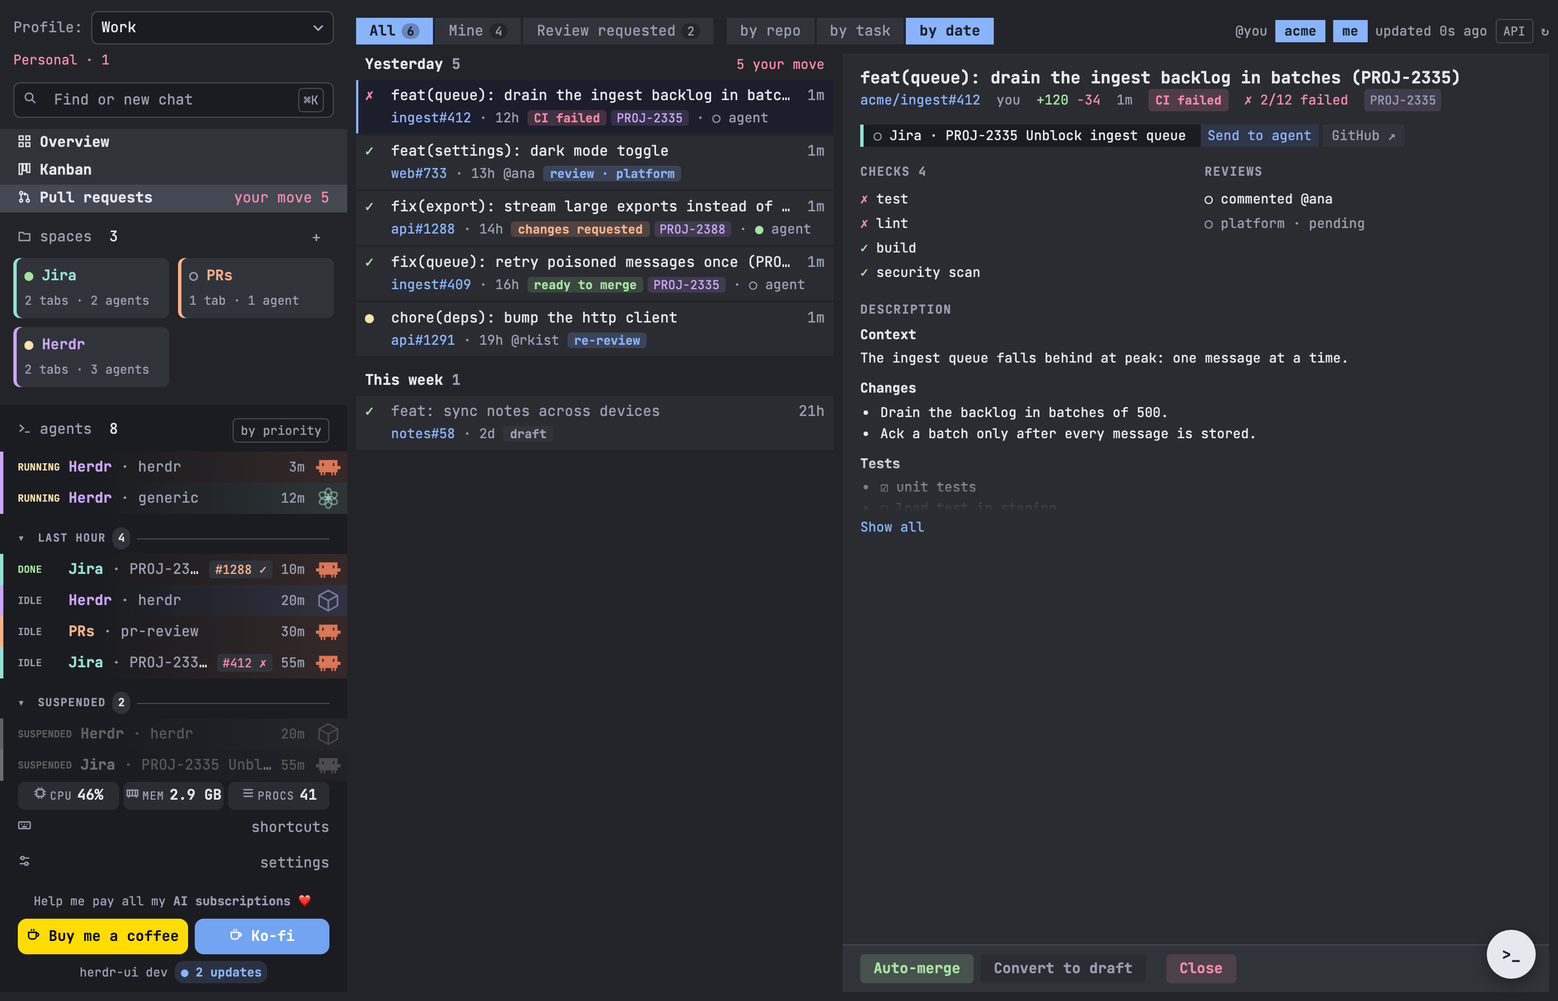
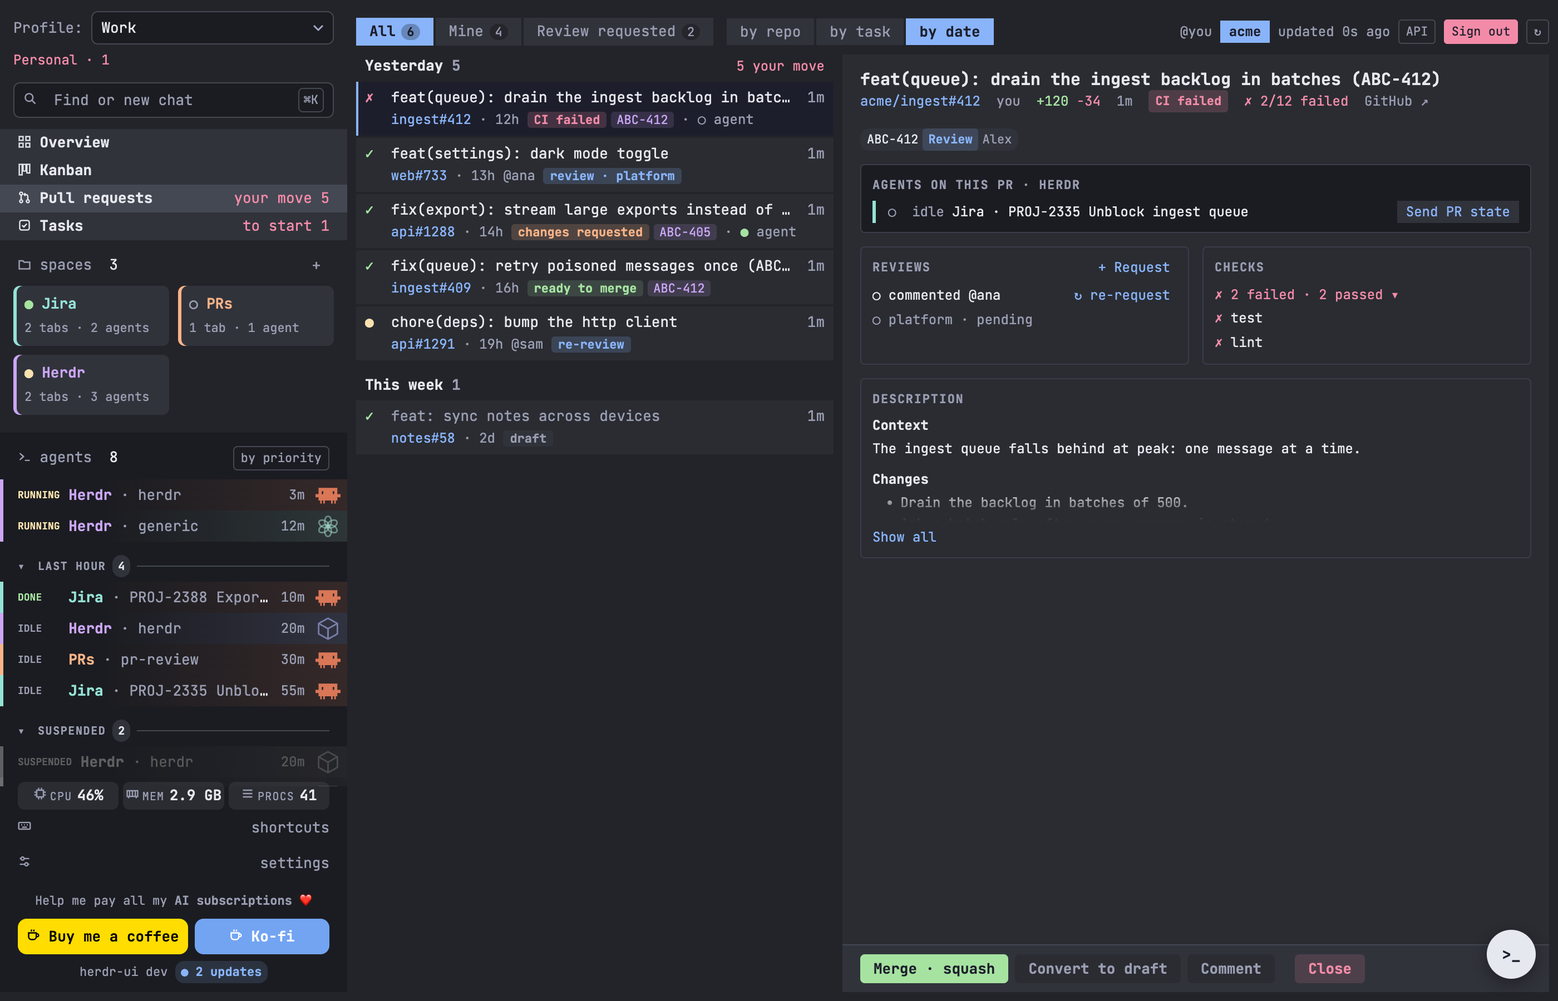
docs(herdr-ui): shorter landing page, Jira Tasks section and v0.18.4 features (#24)
Every point cut to one sentence (1326 -> 757 words). New Tasks (Jira) section
with a sample-data screenshot and a topbar link; agent review, Send PR state,
modules and Run setup again folded into existing sections. PR screenshots
redone with sample logins; the footer names the handle, not the author.

diff --git a/herdr-ui/index.html b/herdr-ui/index.html
@@ -4,7 +4,7 @@
 <meta charset="utf-8">
 <meta name="viewport" content="width=device-width, initial-scale=1">
 <title>herdr-ui · every agent, one screen</title>
-<meta name="description" content="herdr-ui: seamless integration with herdr, with a better UI. A live overview of everything that runs, a kanban by status, ⌘K to find a session or start a chat in any repo, Dock badge and native notifications on macOS.">
+<meta name="description" content="herdr-ui: a better UI for herdr. A live overview of every agent, a kanban by status, pull requests and Jira tasks tied to agents, ⌘K, and native macOS notifications.">
 <link rel="icon" href="icon.svg">
 <meta property="og:image" content="https://dccarbone.github.io/herdr-ui/social-preview.png">
 <link rel="preconnect" href="https://fonts.googleapis.com">
@@ -35,7 +35,7 @@ section[id] { scroll-margin-top:84px; }
 .logo { display:flex; align-items:center; gap:12px; font-weight:800; letter-spacing:-.01em; }
 .logo img { display:block; width:46px; height:46px; margin:-4px; }
 .logo small { display:block; font-size:10px; font-weight:600; letter-spacing:.14em; color:var(--muted); margin-top:-2px; }
-.links { display:flex; align-items:center; gap:30px; font-size:14px; font-weight:500; color:var(--body); }
+.links { display:flex; align-items:center; gap:22px; white-space:nowrap; font-size:14px; font-weight:500; color:var(--body); }
 .links a:not(.btn):hover { color:var(--fg); }
 
 .btn { display:inline-flex; align-items:center; gap:8px; height:46px; padding:0 22px; border-radius:10px; font:600 15px/1 "Plus Jakarta Sans", sans-serif; background:linear-gradient(180deg,var(--accent),var(--accent2)); color:#fff; box-shadow:0 10px 30px rgba(123,114,240,.45); transition:transform .2s var(--ease), box-shadow .2s, filter .2s; border:0; cursor:pointer; }
@@ -153,6 +153,7 @@ footer a:hover { color:var(--fg); }
   .steps { grid-template-columns:1fr; }
   .links a:not(.btn) { display:none; }
 }
+@media (max-width:1280px) { .links a:not(.btn) { display:none; } } /* the anchor row needs ~1280px */
 @media (max-width:560px) { .points, .benefits { grid-template-columns:1fr; } }
 @media (prefers-reduced-motion:reduce) {
   html { scroll-behavior:auto; }
@@ -167,7 +168,7 @@ footer a:hover { color:var(--fg); }
 <div class="topbar"><div class="wrap">
 <nav>
       <a class="logo" href="#"><img src="icon.svg" width="46" height="46" alt=""><span>herdr-ui<small>FOR HERDR</small></span></a>
-      <div class="links"><a href="#overview">Overview</a><a href="#kanban">Kanban</a><a href="#prs">Pull requests</a><a href="#palette">⌘K</a><a href="#assistant">Assistant</a><a href="#native">macOS app</a><a href="#install">Install</a><a class="btn sm bmc" href="https://buymeacoffee.com/dccarbone">☕<span class="lbl"> Buy me a coffee</span></a><a class="btn sm kofi" href="https://ko-fi.com/dccarbone">☕<span class="lbl"> Ko-fi</span></a><a class="btn sm" href="https://pub-1ab8d5b5f9dd43a49ae32ff91a1d4394.r2.dev/herdr-ui/herdr-ui.dmg">Download</a></div>
+      <div class="links"><a href="#overview">Overview</a><a href="#kanban">Kanban</a><a href="#prs">Pull requests</a><a href="#tasks">Tasks</a><a href="#palette">⌘K</a><a href="#assistant">Assistant</a><a href="#native">macOS app</a><a href="#install">Install</a><a class="btn sm bmc" href="https://buymeacoffee.com/dccarbone">☕<span class="lbl"> Buy me a coffee</span></a><a class="btn sm kofi" href="https://ko-fi.com/dccarbone">☕<span class="lbl"> Ko-fi</span></a><a class="btn sm" href="https://pub-1ab8d5b5f9dd43a49ae32ff91a1d4394.r2.dev/herdr-ui/herdr-ui.dmg">Download</a></div>
     </nav>
 </div></div>
 
@@ -178,7 +179,7 @@ footer a:hover { color:var(--fg); }
       <div>
         <span class="pill"><b>macOS</b> Signed, notarized, updates itself</span>
         <h1>Every herdr agent, <span class="grad">one screen.</span></h1>
-        <p class="lead">Seamless integration with herdr, but with a better UI. A live overview of everything that runs, and a kanban that sorts it all by status.</p>
+        <p class="lead">Seamless with herdr, with a better UI: a live overview of every agent and a kanban by status.</p>
         <div class="actions">
           <a class="btn" href="https://pub-1ab8d5b5f9dd43a49ae32ff91a1d4394.r2.dev/herdr-ui/herdr-ui.dmg">Download for macOS</a>
           <a class="btn ghost" href="#overview">See how it works</a>
@@ -203,20 +204,18 @@ footer a:hover { color:var(--fg); }
         <div>
           <div class="icon"><svg viewBox="0 0 24 24"><rect x="3" y="3" width="7" height="7" rx="1.5"/><rect x="14" y="3" width="7" height="7" rx="1.5"/><rect x="3" y="14" width="7" height="7" rx="1.5"/><rect x="14" y="14" width="7" height="7" rx="1.5"/></svg></div>
           <h2>Live <span class="grad">Overview</span></h2>
-          <p style="color:var(--body)">Everything that runs, in one place. Up to four live terminals at once, the rest a page turn away.</p>
+          <p style="color:var(--body)">Everything that runs, up to four live terminals at once.</p>
         </div>
         <div class="points">
-          <div style="--c:var(--pink)"><b>It picks for you</b>Blocked agents first, then working ones and the ones that finished in the last five minutes. Idle agents leave.</div>
-          <div style="--c:var(--cyan)"><b>Pin or hide</b>A pinned agent stays in the overview, whatever its status, and comes first. A hidden one stays out until it blocks; <code>N hidden</code> brings it back.</div>
-          <div style="--c:var(--green)"><b>Cells stay put</b>A status change never moves a cell, so you never click the wrong terminal.</div>
-          <div style="--c:var(--orange)"><b>Spaces in the sidebar</b>Jira, PRs, Troubleshooting, each with a badge of its agent count. One line per agent: its tab, the time in its status, and a soft Claude, Codex or Cursor mark behind it. Drag spaces and tabs to put them in your order. Profiles split them, Work and Personal say, each with its own ⌘K folders; All shows every space, and herdr stays one herdr.</div>
-          <div style="--c:var(--pink)"><b>Pages, not clutter</b>One to four terminals at a time, two by two for four: you pick at first launch or in Settings. <code>&lt;&lt;</code> / <code>&gt;&gt;</code> or ⇧⌘[ / ⇧⌘] slide to the next ones.</div>
-          <div style="--c:var(--green)"><b>Limits under each Claude pane</b>A footer reads the pane's transcript: context use, model and effort, version, how warm the prompt cache is and the tokens the last turn read from and wrote to it. A second line shows the limits of the account that pane uses, 5h, 7d, 7d per model and $ spend, each with a bar, the time gone in the window and when it resets. Behind a per-pane proxy, a Usage URL in Settings gives each pane its own account.</div>
-          <div style="--c:var(--orange)"><b>Idle Claude sessions sleep</b>A Claude session idle for an hour holds about 500 MB. herdr-ui closes it, keeps its session id and greys it out in the sidebar; Resume in its tab reopens the same conversation. The pause button in a pane header does it now.</div>
-          <div style="--c:var(--cyan)"><b>Keyboard first</b>⌘T new tab, ⌘N new space, ⌘D split, ⌘W close, ⌘R reload. ⌘/ lists them all. In a tab, each pane header zooms, renames its agent or closes it, and <code>layouts</code> saves the tab's splits to open again later.</div>
+          <div style="--c:var(--pink)"><b>It picks for you</b>Blocked agents first, then working and just finished ones.</div>
+          <div style="--c:var(--cyan)"><b>Pin or hide</b>Pinned agents stay; hidden ones come back when they block.</div>
+          <div style="--c:var(--orange)"><b>Spaces and profiles</b>Spaces with agent counts, split into Work and Personal.</div>
+          <div style="--c:var(--green)"><b>Limits under each Claude pane</b>Context, model, cache and account limits, with reset times.</div>
+          <div style="--c:var(--orange)"><b>Idle sessions sleep</b>An idle Claude session closes after an hour; Resume reopens it.</div>
+          <div style="--c:var(--cyan)"><b>Keyboard first</b>⌘T, ⌘N, ⌘D, ⌘W; ⌘/ lists them all.</div>
         </div>
       </div>
-      <div class="frame"><div class="bar"><i></i><i></i><i></i><span>herdr-ui · Overview</span></div><img src="overview.png" width="2800" height="1800" alt="The overview: a blocked agent and a working one side by side, and a pager to the next two" loading="lazy"></div>
+      <div class="frame"><div class="bar"><i></i><i></i><i></i><span>herdr-ui · Overview</span></div><img src="overview.png" width="2800" height="1800" alt="The overview: two working agents side by side" loading="lazy"></div>
     </div>
   </section>
 
@@ -227,13 +226,13 @@ footer a:hover { color:var(--fg); }
         <div>
           <div class="icon"><svg viewBox="0 0 24 24"><rect x="3" y="3" width="5" height="18" rx="1.5"/><rect x="10" y="3" width="5" height="12" rx="1.5"/><rect x="17" y="3" width="4" height="15" rx="1.5"/></svg></div>
           <h2>Kanban by <span class="grad">status</span></h2>
-          <p style="color:var(--body)">Every agent at once, sorted by what it is doing. Or one column per space.</p>
+          <p style="color:var(--body)">Every agent, sorted by what it is doing, or one column per space.</p>
         </div>
         <div class="points">
-          <div style="--c:var(--pink)"><b>Needs you</b>Blocked cards show the question and the keys that answer it.</div>
-          <div style="--c:var(--orange)"><b>Running</b>Working agents, with a live hint of activity.</div>
+          <div style="--c:var(--pink)"><b>Needs you</b>The question and the keys that answer it.</div>
+          <div style="--c:var(--orange)"><b>Running</b>Working agents, live.</div>
           <div style="--c:var(--green)"><b>Done</b>Agents that finished their task.</div>
-          <div style="--c:var(--muted)"><b>Idle</b>Waiting for the next prompt. Click any card to open its terminal.</div>
+          <div style="--c:var(--muted)"><b>Idle</b>Waiting; click a card to open it.</div>
         </div>
       </div>
       <div class="tabs" role="tablist" aria-label="Kanban grouping">
@@ -251,13 +250,13 @@ footer a:hover { color:var(--fg); }
         <div>
           <div class="icon"><svg viewBox="0 0 24 24"><circle cx="6" cy="6" r="2.5"/><circle cx="6" cy="18" r="2.5"/><circle cx="18" cy="18" r="2.5"/><path d="M6 8.5v7M18 15.5V9a3 3 0 0 0-3-3h-4M13 4l-2 2 2 2"/></svg></div>
           <h2>Pull requests, <span class="grad">tied to agents</span></h2>
-          <p style="color:var(--body)">Your PRs and the reviews asked of you or your team, next to the agents working on them. It reads GitHub through the gh CLI, and Sign in with GitHub sets that up from the app: it installs gh when it is missing and opens GitHub to authorize it. No terminal, no token to paste.</p>
+          <p style="color:var(--body)">Your PRs and the reviews asked of you, next to their agents. Sign in with GitHub from the app.</p>
         </div>
         <div class="points">
-          <div style="--c:var(--pink)"><b>Your move</b>CI failed, changes requested, a review waiting: those come first.</div>
-          <div style="--c:var(--orange)"><b>Linked agents</b>The agent on the PR's branch, or the chat whose tab names the same task (ABC-123). Send it the CI failure in one click, or fork its session to fix the PR without disturbing it.</div>
-          <div style="--c:var(--green)"><b>Act here</b>Merge, auto-merge, update the branch, approve or request changes, and request a review with suggested teams and people, without leaving the window.</div>
-          <div style="--c:var(--muted)"><b>Notified</b>CI red, review asked, PR approved: a notification and a sound.</div>
+          <div style="--c:var(--pink)"><b>Your move</b>Failed CI, requested changes and waiting reviews come first.</div>
+          <div style="--c:var(--orange)"><b>Linked agents</b>Send the PR state to its agent, even a suspended one.</div>
+          <div style="--c:var(--green)"><b>Act here</b>Merge, approve, comment or request a review in place.</div>
+          <div style="--c:var(--cyan)"><b>Review with an agent</b>Claude or Cursor reviews read-only; you post the verdict.</div>
         </div>
       </div>
       <div class="tabs" role="tablist" aria-label="Pull request grouping">
@@ -268,6 +267,26 @@ footer a:hover { color:var(--fg); }
     </div>
   </section>
 
+  <section id="tasks">
+    <div class="card rv">
+      <div class="glow" style="top:-160px;left:-140px"></div>
+      <div class="feature-top">
+        <div>
+          <div class="icon"><svg viewBox="0 0 24 24"><rect x="4" y="4" width="16" height="16" rx="3"/><path d="M8.5 12l2.5 2.5 4.5-5"/></svg></div>
+          <h2>Jira tasks, <span class="grad">by sprint</span></h2>
+          <p style="color:var(--body)">Your open Jira Cloud issues: current sprint, next and backlog. Read only, off until you turn it on in Settings.</p>
+        </div>
+        <div class="points">
+          <div style="--c:var(--pink)"><b>Four tabs</b>Assigned to me, Reported by me, Unassigned, From my PRs.</div>
+          <div style="--c:var(--orange)"><b>One row each</b>Epic, status, dates, reporter and assignee.</div>
+          <div style="--c:var(--green)"><b>Search</b>By key, title, label or epic.</div>
+          <div style="--c:var(--cyan)"><b>Task chips</b>A task's status shows on its PRs and agents.</div>
+        </div>
+      </div>
+      <div class="frame"><div class="bar"><i></i><i></i><i></i><span>herdr-ui · Tasks</span></div><img src="tasks.png" width="2800" height="1800" alt="Tasks: Jira issues by sprint with epic, status, dates and avatars" loading="lazy"></div>
+    </div>
+  </section>
+
   <section id="palette">
     <div class="card rv">
       <div class="glow" style="top:-160px;right:-120px"></div>
@@ -275,13 +294,13 @@ footer a:hover { color:var(--fg); }
         <div>
           <div class="icon"><svg viewBox="0 0 24 24"><circle cx="11" cy="11" r="7"/><path d="M21 21l-4.3-4.3"/></svg></div>
           <h2>Find anything with <span class="grad">⌘K</span></h2>
-          <p style="color:var(--body)">One search for every session and every repo. Press ⌘K or click Find at the top of the sidebar, type a few letters, press Enter.</p>
+          <p style="color:var(--body)">One search for every session and repo: ⌘K, a few letters, Enter.</p>
         </div>
         <div class="points">
-          <div style="--c:var(--pink)"><b>Jump to a session</b>Search by space, tab, agent or folder. Enter opens the terminal, ready to type.</div>
-          <div style="--c:var(--cyan)"><b>Start a new chat, in any space</b>Pick a folder, and the space at the top (Tab cycles it). herdr-ui opens a tab there with your agent running. ⌘Enter always starts a fresh one.</div>
-          <div style="--c:var(--green)"><b>No duplicates</b>If an agent already works in that folder, Enter takes you to it instead.</div>
-          <div style="--c:var(--orange)"><b>Your folders</b>Point it at <code>~/repos</code>, a chats folder, anything. The first launch shows the folders and the agents it found on your Mac; change them later in Settings.</div>
+          <div style="--c:var(--pink)"><b>Jump to a session</b>By space, tab, agent or folder.</div>
+          <div style="--c:var(--cyan)"><b>New chat anywhere</b>Pick a folder and a space; your agent starts there.</div>
+          <div style="--c:var(--green)"><b>No duplicates</b>Enter goes to the agent already in that folder.</div>
+          <div style="--c:var(--orange)"><b>Your folders</b><code>~/repos</code> or any folder, set in Settings.</div>
         </div>
       </div>
       <div class="frame"><div class="bar"><i></i><i></i><i></i><span>herdr-ui · ⌘K</span></div><img src="palette.png" width="2800" height="1800" alt="The ⌘K palette over the overview, listing matching sessions and folders for a new chat" loading="lazy"></div>
@@ -304,11 +323,11 @@ footer a:hover { color:var(--fg); }
       <div class="rv" style="--i:1">
         <div class="icon"><svg viewBox="0 0 24 24"><path d="M4 17l6-6-6-6"/><path d="M12 19h8"/></svg></div>
         <h2>Ask the <span class="grad">assistant</span></h2>
-        <p class="body">A chat behind the <code>&gt;_</code> button, bottom right, or ⌘J. Tell it what you want; it runs herdr for you.</p>
+        <p class="body">A chat behind <code>&gt;_</code> or ⌘J that runs herdr for you.</p>
         <ul class="list">
-          <li><span><b>Plain words.</b> Open a chat, answer a blocked agent, rename or tidy spaces.</span></li>
-          <li><span><b>Keeps the thread.</b> One running session, so it remembers what you asked before. New starts over.</span></li>
-          <li><span><b>Out of the way.</b> Its own hidden space, small and fast. A click anywhere outside closes it. If its agent gets stuck on a login, it shows you that screen.</span></li>
+          <li><span><b>Plain words.</b> Open a chat, answer an agent, tidy spaces.</span></li>
+          <li><span><b>Keeps the thread.</b> One session remembers what you asked.</span></li>
+          <li><span><b>Out of the way.</b> Its own hidden space; click outside to close.</span></li>
         </ul>
       </div>
     </div>
@@ -319,12 +338,11 @@ footer a:hover { color:var(--fg); }
       <div class="rv">
         <div class="icon"><svg viewBox="0 0 24 24"><path d="M18 8a6 6 0 0 0-12 0c0 7-3 9-3 9h18s-3-2-3-9"/><path d="M13.7 21a2 2 0 0 1-3.4 0"/></svg></div>
         <h2>Know without <span class="grad">looking</span></h2>
-        <p class="body">The macOS app tells you when an agent needs you, even with the window in the background.</p>
+        <p class="body">The app tells you when an agent needs you, even in the background.</p>
         <ul class="list">
-          <li><span><b>Native notifications.</b> Each one names the space and the agent that blocked or finished. Click it to land on that agent.</span></li>
-          <li><span><b>Dock badge.</b> The icon counts the blocked agents. The number drops as you answer them.</span></li>
-          <li><span><b>Dock bounce.</b> The icon bounces when an agent blocks.</span></li>
-          <li><span><b>Your call.</b> Turn off the finished notifications in settings. A test button checks it all works.</span></li>
+          <li><span><b>Native notifications.</b> Click one to land on that agent.</span></li>
+          <li><span><b>Dock badge and bounce.</b> The icon counts blocked agents.</span></li>
+          <li><span><b>Your call.</b> Pick what notifies, with a test button.</span></li>
         </ul>
       </div>
       <div class="mac rv" style="--i:1">
@@ -339,33 +357,33 @@ footer a:hover { color:var(--fg); }
   </section>
 
   <section>
-    <div class="head rv"><h2>Seamless with herdr, <span class="grad">better to look at</span></h2><p>herdr-ui reads your herdr session as it is. Nothing to configure, unless you want ⌘K to look in other folders.</p></div>
+    <div class="head rv"><h2>Seamless with herdr, <span class="grad">better to look at</span></h2><p>herdr-ui reads your herdr session as it is. GitHub and Jira switch on or off in Settings, nothing lost while off.</p></div>
     <div class="card benefits">
-      <div class="rv"><div class="icon"><svg viewBox="0 0 24 24"><path d="M4 17l6-6-6-6"/><path d="M12 19h8"/></svg></div><b>Same session</b><p>Talks to herdr through its CLI and socket. Your spaces, tabs and agents show up as they are.</p></div>
-      <div class="rv" style="--i:1"><div class="icon"><svg viewBox="0 0 24 24"><rect x="3" y="4" width="18" height="14" rx="2"/><path d="M8 21h8"/></svg></div><b>Browser or app</b><p>One Go binary serves the UI. Use it in the browser, or as the macOS app.</p></div>
-      <div class="rv" style="--i:2"><div class="icon"><svg viewBox="0 0 24 24"><rect x="5" y="11" width="14" height="10" rx="2"/><path d="M8 11V7a4 4 0 0 1 8 0v4"/></svg></div><b>Local only</b><p>It listens on 127.0.0.1. Your sessions, folders and chats never leave your machine. It sends one anonymous ping a day (version, a random install id) to count active installs; feature stats are opt-in.</p></div>
-      <div class="rv" style="--i:3"><div class="icon"><svg viewBox="0 0 24 24"><path d="M21 12a9 9 0 1 1-3-6.7L21 8"/><path d="M21 3v5h-5"/></svg></div><b>One-click updates, herdr too</b><p>A modal over the blurred app says when a new herdr-ui is out; Update installs it right there, step by step, and What's new lists the changes. Settings › herdr updates herdr itself and restarts its server without closing your agents; Integrations and Plugins keep the agent hooks and herdr plugins in shape.</p></div>
+      <div class="rv"><div class="icon"><svg viewBox="0 0 24 24"><path d="M4 17l6-6-6-6"/><path d="M12 19h8"/></svg></div><b>Same session</b><p>Your spaces, tabs and agents, as they are.</p></div>
+      <div class="rv" style="--i:1"><div class="icon"><svg viewBox="0 0 24 24"><rect x="3" y="4" width="18" height="14" rx="2"/><path d="M8 21h8"/></svg></div><b>Browser or app</b><p>One Go binary, in the browser or as the macOS app.</p></div>
+      <div class="rv" style="--i:2"><div class="icon"><svg viewBox="0 0 24 24"><rect x="5" y="11" width="14" height="10" rx="2"/><path d="M8 11V7a4 4 0 0 1 8 0v4"/></svg></div><b>Local only</b><p>Listens on 127.0.0.1; one anonymous daily ping, stats opt-in.</p></div>
+      <div class="rv" style="--i:3"><div class="icon"><svg viewBox="0 0 24 24"><path d="M21 12a9 9 0 1 1-3-6.7L21 8"/><path d="M21 3v5h-5"/></svg></div><b>One-click updates</b><p>herdr-ui and herdr itself, without closing your agents.</p></div>
     </div>
   </section>
 
   <section id="install">
     <div class="head rv"><h2>Install in <span class="grad">three steps</span></h2></div>
     <div class="steps">
-      <div class="card rv"><div class="n">1</div><b>Drag to Applications</b><p>Open the .dmg and drag herdr-ui to Applications. It runs on Apple Silicon and Intel.</p></div>
-      <div class="card rv" style="--i:1"><div class="n">2</div><b>Open it</b><p>Double-click herdr-ui in Applications. The app is signed and notarized by Apple, so it opens like any other app. One setup screen confirms herdr, your folders and your agent.</p></div>
-      <div class="card rv" style="--i:2"><div class="n">3</div><b>Allow notifications</b><p>Turn them on in System Settings, so the badge and the alerts work. Settings in the app has a test button.</p></div>
+      <div class="card rv"><div class="n">1</div><b>Drag to Applications</b><p>Open the .dmg and drag herdr-ui to Applications.</p></div>
+      <div class="card rv" style="--i:1"><div class="n">2</div><b>Open it</b><p>A setup walks through every feature; Settings › General › Run setup again reopens it.</p></div>
+      <div class="card rv" style="--i:2"><div class="n">3</div><b>Allow notifications</b><p>Turn them on in System Settings for the badge and alerts.</p></div>
     </div>
   </section>
 
   <section>
     <div class="card cta rv">
       <h2>See every agent <span class="grad">at a glance</span></h2>
-      <p>Download herdr-ui and open it next to herdr. All screenshots on this page use sample data.</p>
+      <p>Download herdr-ui and open it next to herdr. Screenshots use sample data.</p>
       <div class="actions"><a class="btn" href="https://pub-1ab8d5b5f9dd43a49ae32ff91a1d4394.r2.dev/herdr-ui/herdr-ui.dmg">Download for macOS (.dmg)</a><a class="btn ghost" href="#overview">Back to the overview</a></div>
     </div>
   </section>
 
-  <footer><span>herdr-ui · an app for herdr · by <a href="../">Diego Carbone</a></span><span>Contact: <a href="mailto:dccarbone.app@gmail.com">dccarbone.app@gmail.com</a> · Help me pay all my <b>AI subscriptions</b> ❤ <a href="https://buymeacoffee.com/dccarbone">Buy me a coffee</a> · <a href="https://ko-fi.com/dccarbone">Ko-fi</a> · 2026</span></footer>
+  <footer><span>herdr-ui · an app for herdr · by <a href="../">dccarbone</a></span><span>Contact: <a href="mailto:dccarbone.app@gmail.com">dccarbone.app@gmail.com</a> · Help me pay all my <b>AI subscriptions</b> ❤ <a href="https://buymeacoffee.com/dccarbone">Buy me a coffee</a> · <a href="https://ko-fi.com/dccarbone">Ko-fi</a> · 2026</span></footer>
 </main>
 
 <script>
